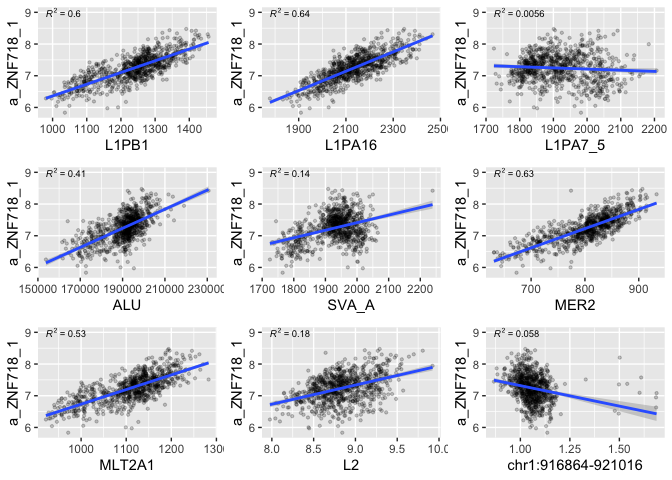
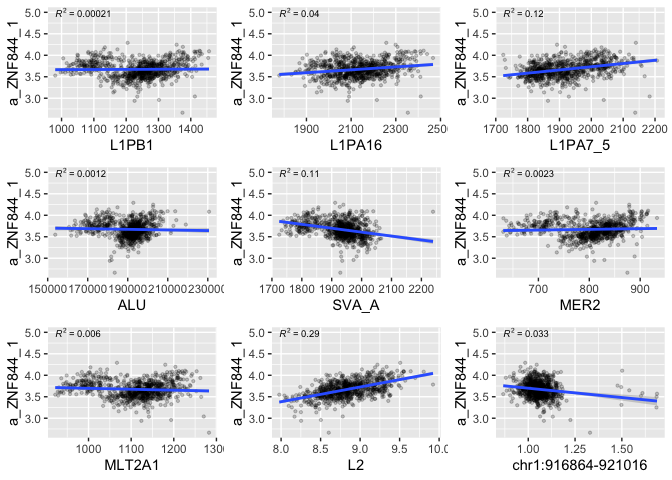
Script 10 documented
Documented script 10, added KRAB coverage control (script 5) and KRAB cross-mapping control (script 8)

diff --git a/ric_documentation/10_HGDP_KRAB-ZNF.md b/ric_documentation/10_HGDP_KRAB-ZNF.md
@@ -1,6 +1,10 @@
 HGDP - KRAB-ZNF
 ================
 
+In this script I will use the analysis previously established for TE to
+look at the KRAB-ZNF proteins copynumber in the dataset. These proteins
+are known to be one of the main host defense against TEs.
+
 ``` r
 library(tidyverse)
 ```
@@ -33,6 +37,12 @@ HGDPcutoff<-read_delim("/Users/rpianezza/TE/summary-HGDP/USEME_HGDP_complete_ref
 names(HGDPcutoff)<-c("ID","pop","sex","Country","type","familyname","length","reads","copynumber","batch")
 ```
 
+## Select the most variable KRAB-ZNF
+
+I first create a dataset with `min`, `max`, and `mean` copynumber of
+each KRAB. Then, I filter for the most variable KRABs (`diff>1`) and I
+plot the selected KRABs in a boxplot.
+
 ``` r
 KRAB_ZNF <- filter(HGDPcutoff, type == "krab") %>% group_by(familyname) %>% summarise(min = min(copynumber), mean = mean(copynumber), max = max(copynumber))
 
@@ -47,6 +57,11 @@ ggplot(KRAB_outliers, aes(x=familyname, y=copynumber)) + geom_boxplot(notch=F) +
 ```
 
 ![](10_HGDP_KRAB-ZNF_files/figure-gfm/unnamed-chunk-2-1.png)<!-- -->
+
+## Plot the copynumber distribution and the geographic distribution of the copynumbers
+
+Then I plot the **copynumber distribution** of the 3 most variable
+KRABs, dividing the colours by continent.
 
 ``` r
 plotTEfamily <- function(data, famname, binwidht, x_title, y_title, x_numbers, y_numbers){
@@ -83,11 +98,14 @@ ggplot(data = filtered, mapping = aes(x = copynumber, fill = Country)) +
 
 ![](10_HGDP_KRAB-ZNF_files/figure-gfm/unnamed-chunk-4-3.png)<!-- -->
 
-``` r
-(a_ZNF138_5_plot<-plotTEfamily(KRAB_outliers, 'a_ZNF658_2', 0.3, 'y', 'y', 'y', 'y'))
-```
+I notice that in the first 2 KRABs (`a_ZNF138_5` and `a_ZNF718_1`) we
+have the **africans**, the **oceanians** and the **native americans** in
+the left part (low copynumber). This look promising, so I plot the
+geographical distribution of the copynumbers grouping by population.
 
-![](10_HGDP_KRAB-ZNF_files/figure-gfm/unnamed-chunk-4-4.png)<!-- -->
+Note that, differently from what I did for the TEs, I do not divide the
+dataset between males and females. This is because I did not notice
+significant differences among the two sexes about the KRAB copynumbers.
 
 ``` r
 coordinates <- read_tsv("/Users/rpianezza/TE/summary-HGDP/HGDP_populationcoordinates.txt", col_names = c("pop", "region", "latitude", "longitude"))
@@ -155,8 +173,26 @@ plot_map(data, "a_ZNF844_1")
 
 ![](10_HGDP_KRAB-ZNF_files/figure-gfm/unnamed-chunk-7-3.png)<!-- -->
 
+## Linear regressions
+
+For the first 2 KRABs, I see a pattern that reflect the pattern of lot
+of interesting TEs (few TE in africans, oceanians, americans, lots in
+eurasians). The third KRAB do not show a particular geographic pattern.
+
+To confirm this correlations, I then check for a linear correlation
+between the copynumber of the most interesting TEs and the KRABs
+copynumber.
+
+To complete the figures, I add `L1PA16` (another interesting L1) and a
+**single copy gene** (`chr1:916864-921016`) as negative control.
+
 ``` r
 KRAB_TE_regression <- function(data, TE, KRAB, r){
+  
+  # data = the sync file, final output of the pipeline or a subset of it
+  # TE, KRAB = the names of the two (es. "ALU")
+  # r = y coordinate where the R^2 value is gonna be print on the plots
+  
   TE_data <- data %>% filter(familyname==TE) %>% select(ID, copynumber, Country)
   KRAB_data <- data %>% filter(familyname==KRAB) %>% select(ID, copynumber, Country)
   
@@ -171,6 +207,7 @@ KRAB_TE_regression <- function(data, TE, KRAB, r){
 ```
 
 ``` r
+# KRAB = a_ZNF138_5
 L1PB_138 <- KRAB_TE_regression(HGDPcutoff, "L1PB1", "a_ZNF138_5", 15)
 L1PA16_138 <- KRAB_TE_regression(HGDPcutoff, "L1PA16", "a_ZNF138_5", 15)
 L1PA_138 <- KRAB_TE_regression(HGDPcutoff, "L1PA7_5", "a_ZNF138_5", 15)
@@ -197,6 +234,7 @@ scg_138 <- KRAB_TE_regression(HGDPcutoff, "chr1:916864-921016", "a_ZNF138_5", 15
 ![](10_HGDP_KRAB-ZNF_files/figure-gfm/unnamed-chunk-9-1.png)<!-- -->
 
 ``` r
+# KRAB = a_ZNF718_1
 L1PB_718 <- KRAB_TE_regression(HGDPcutoff, "L1PB1", "a_ZNF718_1", 9)
 L1PA16_718 <- KRAB_TE_regression(HGDPcutoff, "L1PA16", "a_ZNF718_1", 9)
 L1PA_718 <- KRAB_TE_regression(HGDPcutoff, "L1PA7_5", "a_ZNF718_1", 9)
@@ -220,7 +258,7 @@ scg_718 <- KRAB_TE_regression(HGDPcutoff, "chr1:916864-921016", "a_ZNF718_1", 9)
     ## `geom_smooth()` using formula 'y ~ x'
     ## `geom_smooth()` using formula 'y ~ x'
 
-![](10_HGDP_KRAB-ZNF_files/figure-gfm/unnamed-chunk-10-1.png)<!-- -->
+![](10_HGDP_KRAB-ZNF_files/figure-gfm/unnamed-chunk-9-2.png)<!-- -->
 
 ``` r
 L1PB_844 <- KRAB_TE_regression(HGDPcutoff, "L1PB1", "a_ZNF844_1", 5)
@@ -246,4 +284,26 @@ scg_844 <- KRAB_TE_regression(HGDPcutoff, "chr1:916864-921016", "a_ZNF844_1", 5)
     ## `geom_smooth()` using formula 'y ~ x'
     ## `geom_smooth()` using formula 'y ~ x'
 
-![](10_HGDP_KRAB-ZNF_files/figure-gfm/unnamed-chunk-11-1.png)<!-- -->
+![](10_HGDP_KRAB-ZNF_files/figure-gfm/unnamed-chunk-10-1.png)<!-- -->
+
+For the first two KRABs we have a nice correlation with their
+copynumbers and the copynumber of: `L1PB1`, `L1PA16`, `ALU`, `MER2` and
+`MLT2A1`. The third one can be used as negative control since no
+transposon shows a significant correlation with it.
+
+We do not expect `L1PA7_5` to have a correlation with the two KRABs,
+because this TE is showing a reverse geographical distribution compared
+to the others.
+
+## Controls
+
+### Coverage
+
+The coverages for all three the KRABs are analyzed in script 5. Their
+coverage distribution is not even, but it’s not showing substantial
+differences between individuals, populations or sexes.
+
+### Cross-mapping
+
+There are some KRABs which have few cross-mapped reads (see script 8),
+but the 3 analyzed here have zero.

diff --git a/ric_documentation/5_HGDP_controls.md b/ric_documentation/5_HGDP_controls.md
@@ -960,5 +960,76 @@ f_pop3_L1PB1 <- ggarrange(f1_L1PB1_yoruba, f2_L1PB1_yoruba, f3_L1PB1_yoruba, f1_
 
 ![](5_HGDP_controls_files/figure-gfm/unnamed-chunk-19-2.png)<!-- -->
 
-I conclude that the pattern previously observed are consistent among the
-different individuals composing the populations.
+I conclude that the patterns previously observed are consistent among
+the different individuals composing the populations.
+
+Now I want to check the scale of the plots to see if the different
+patterns may be explained like this.
+
+``` r
+m1_L1ME5_yoruba <- plot_bed(yoruba_m1, "L1ME5_te", 'n', 'n', 'y', 'y') + ggtitle("Yoruba male")
+m1_L1ME5_french <- plot_bed(french_m1, "L1ME5_te", 'n', 'n', 'y', 'y') + ggtitle("French male") + ylim(0,50)
+f1_L1ME5_yoruba <- plot_bed(yoruba_f1, "L1ME5_te", 'n', 'n', 'y', 'y') + ggtitle("Yoruba female")
+f1_L1ME5_french <- plot_bed(french_f1, "L1ME5_te", 'n', 'n', 'y', 'y') + ggtitle("French female") + ylim(0,50)
+
+L1ME5_scale <- ggarrange(m1_L1ME5_yoruba, m1_L1ME5_french, f1_L1ME5_yoruba, f1_L1ME5_french, ncol = 2, nrow = 2, common.legend = TRUE, legend = "bottom", align = "hv", font.label = list(size = 10, color = "black", face = "bold", family = NULL, position = "top"))
+```
+
+    ## Warning: Removed 68 rows containing missing values (geom_segment).
+
+    ## Warning: Removed 78 rows containing missing values (geom_segment).
+
+    ## Warning: Removed 68 rows containing missing values (geom_segment).
+
+    ## Warning: Removed 78 rows containing missing values (geom_segment).
+
+``` r
+(L1ME5_scale_final <- annotate_figure(L1ME5_scale, left = text_grob("Coverage", color = "black", rot = 90), bottom = text_grob("Base number", color = "black"), top = text_grob("L1ME5", color = "black"), fig.lab = ""))
+```
+
+![](5_HGDP_controls_files/figure-gfm/unnamed-chunk-20-1.png)<!-- -->
+
+By setting 50 as limit for the y-axis, the patterns are not so different
+anymore. I conclude that the main difference is given by a short
+sequence, mapping around positions 250-300 of the L1ME5 reference
+sequence and which coverage is enormously different among populations.
+Now I want to get the exact positions of the interesting sequence.
+
+Thus, I select for the positions in which the **coverage** is `> 1000`.
+The sequence is around **30 bases long** and it’s spanning between
+positions `274-311`.
+
+``` r
+filter(french_m1, familyname == "L1ME5_te") %>% filter(coverage>1000)
+```
+
+    ## # A tibble: 31 × 4
+    ##    familyname start_pos end_pos coverage
+    ##    <chr>          <dbl>   <dbl>    <dbl>
+    ##  1 L1ME5_te         274     275     1092
+    ##  2 L1ME5_te         275     276     1158
+    ##  3 L1ME5_te         276     277     1218
+    ##  4 L1ME5_te         277     278     1240
+    ##  5 L1ME5_te         278     279     1247
+    ##  6 L1ME5_te         279     280     1214
+    ##  7 L1ME5_te         280     281     1532
+    ##  8 L1ME5_te         281     282     4011
+    ##  9 L1ME5_te         282     283     4037
+    ## 10 L1ME5_te         283     284     4073
+    ## # … with 21 more rows
+
+``` r
+L1ME5_fullsequence <- "ctaaggaaagaattaaaaaaagtacaaaaatatatattcaagaattttcatttcaatattggntttaaaacaataaaatatttggaaacaatctaaatgtctaataatgggagaataaataaattatagtatatctataaaataaaatattatatagctattaaaawtatatttttaaaaaatatttaatgatataaaaaaatntttataatataatattaaataaaaaaaataaattataaaattatatatataatataattttatatnttaaatatataatatatatataaatatatatatatatatatnaaataaaaaaaaaagactgaaaggaaatatacaccaaaatgttaacagtggttatctctgggtggtgggattataggtgatttttatttttttttttttttttatattttctgtattttctaaattttttntaaattttctacaataaatatgtattacttttataatcagaaaaaaaataaaaataataaaaat"
+
+str_sub(L1ME5_fullsequence, start = 274, end = 311) %>% toupper()
+```
+
+    ## [1] "AATATATAATATATATATAAATATATATATATATATAT"
+
+Aligning the sequence with BLAST did not produce any result. Probably
+the sequence is too short for this. This question remains: why it is
+present in `Maya` **females** but not in the **males**? Could it be a
+**mtDNA** variant which was absent from Africans and then evolved in
+Eurasians and in some way spread into America? This would explain the
+pattern in Maya, but not in Eurasians (see `French`) in which this
+variant is present in both sexes.
